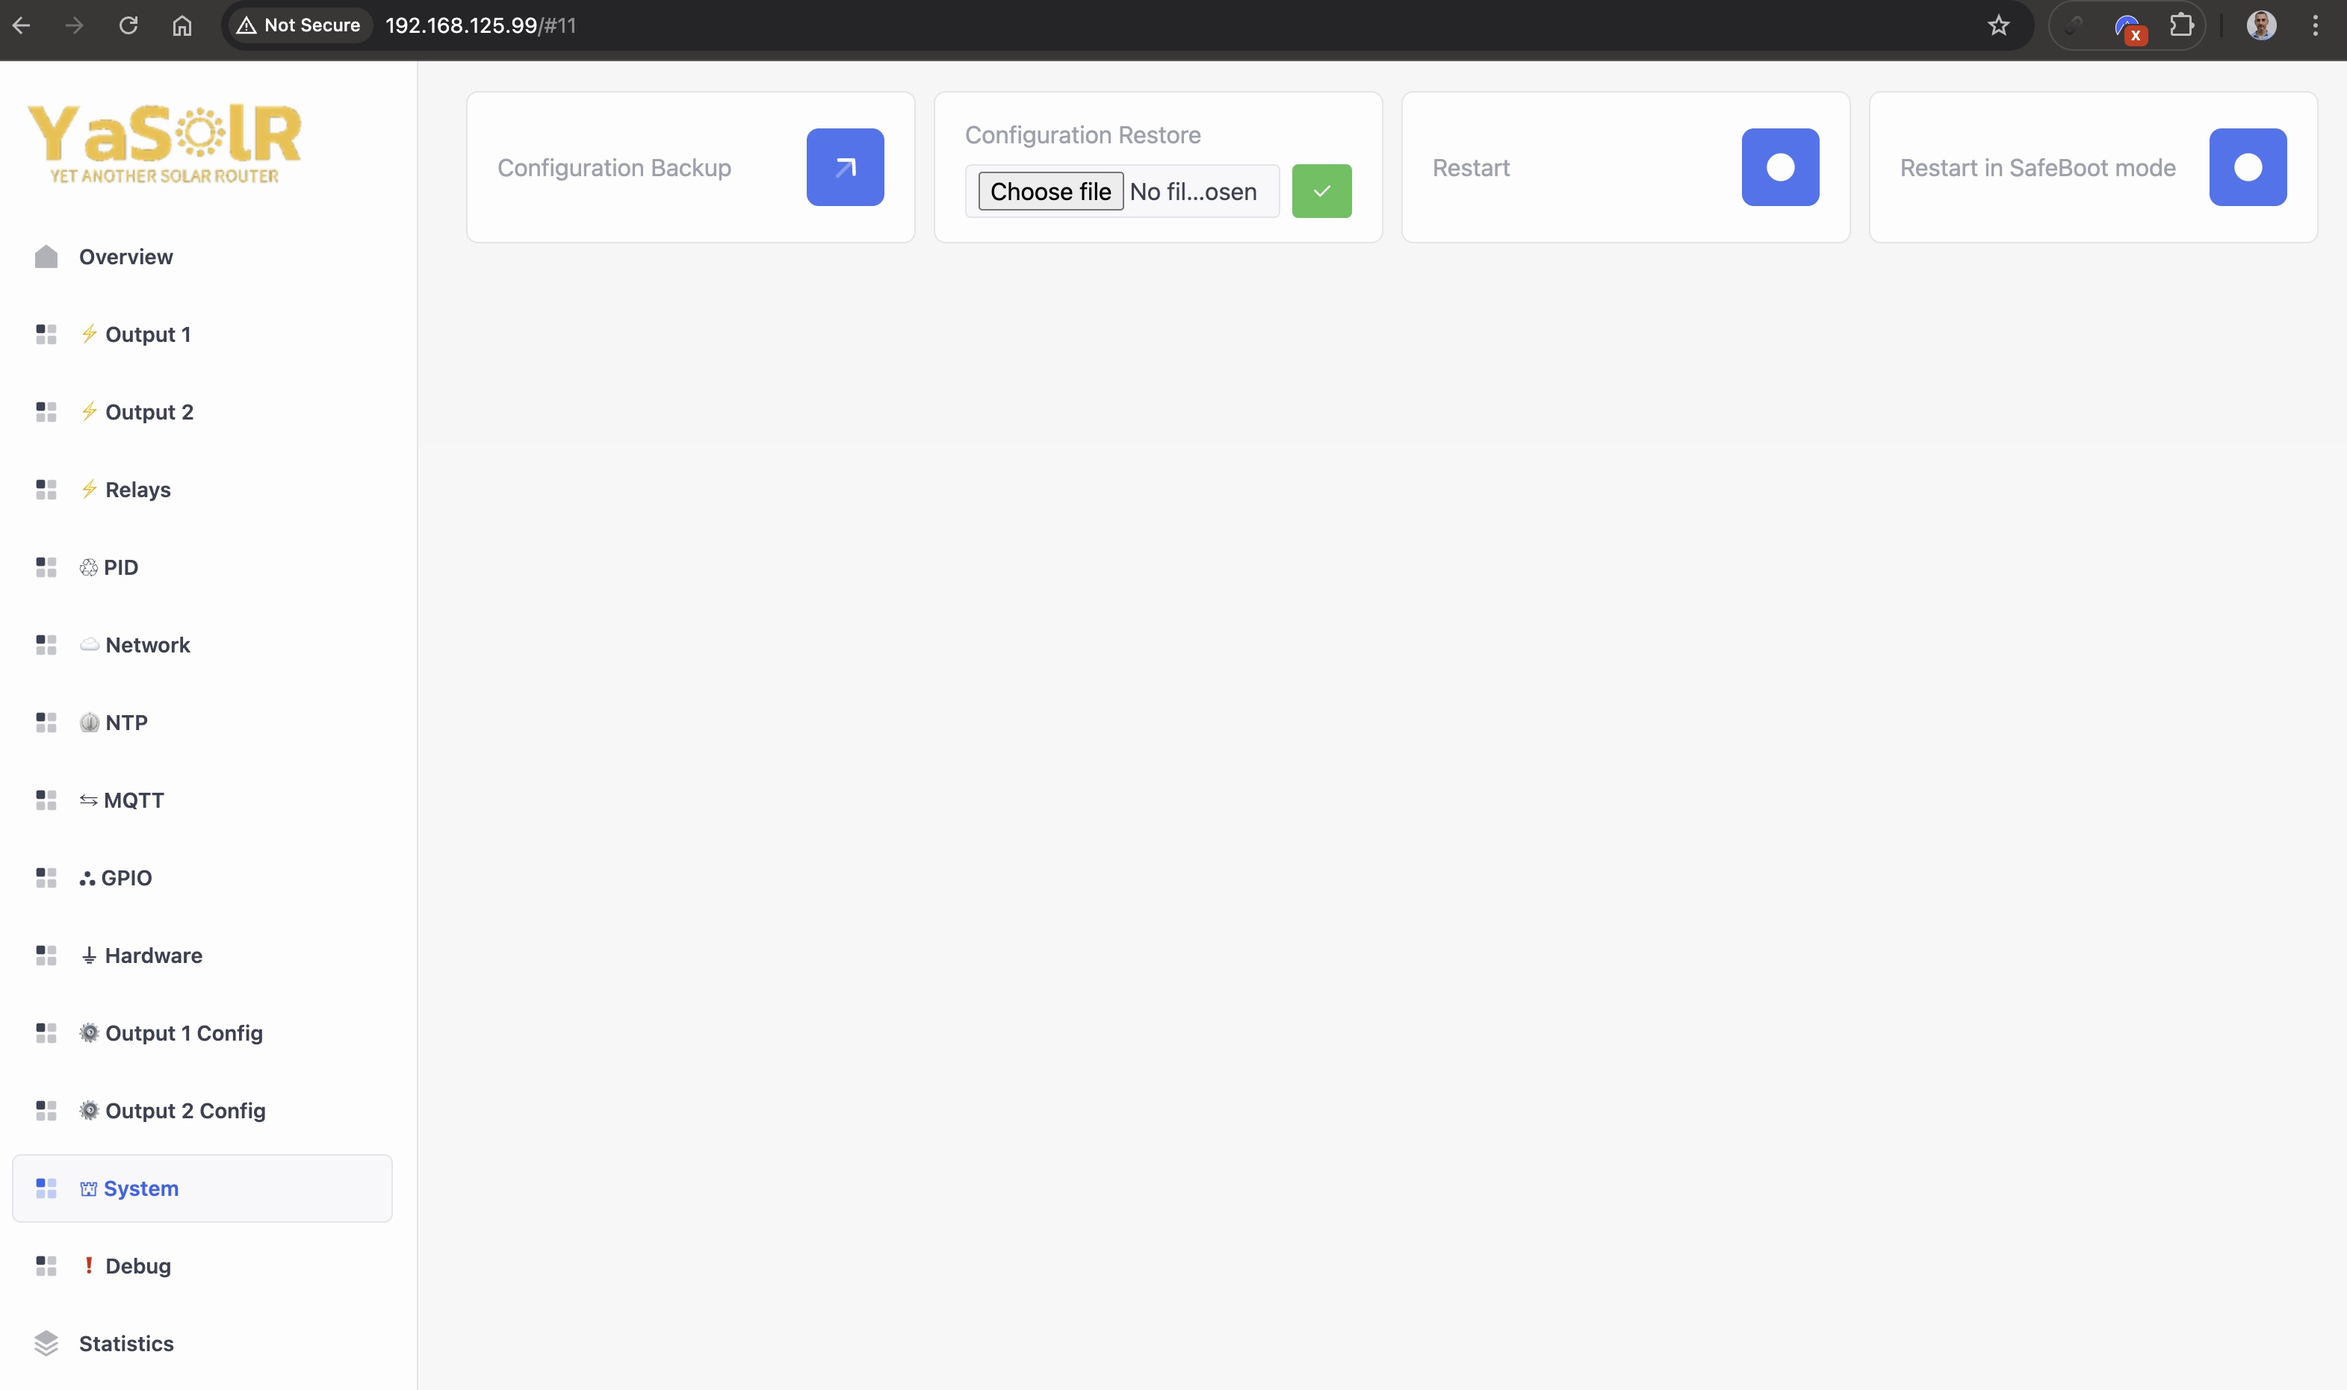
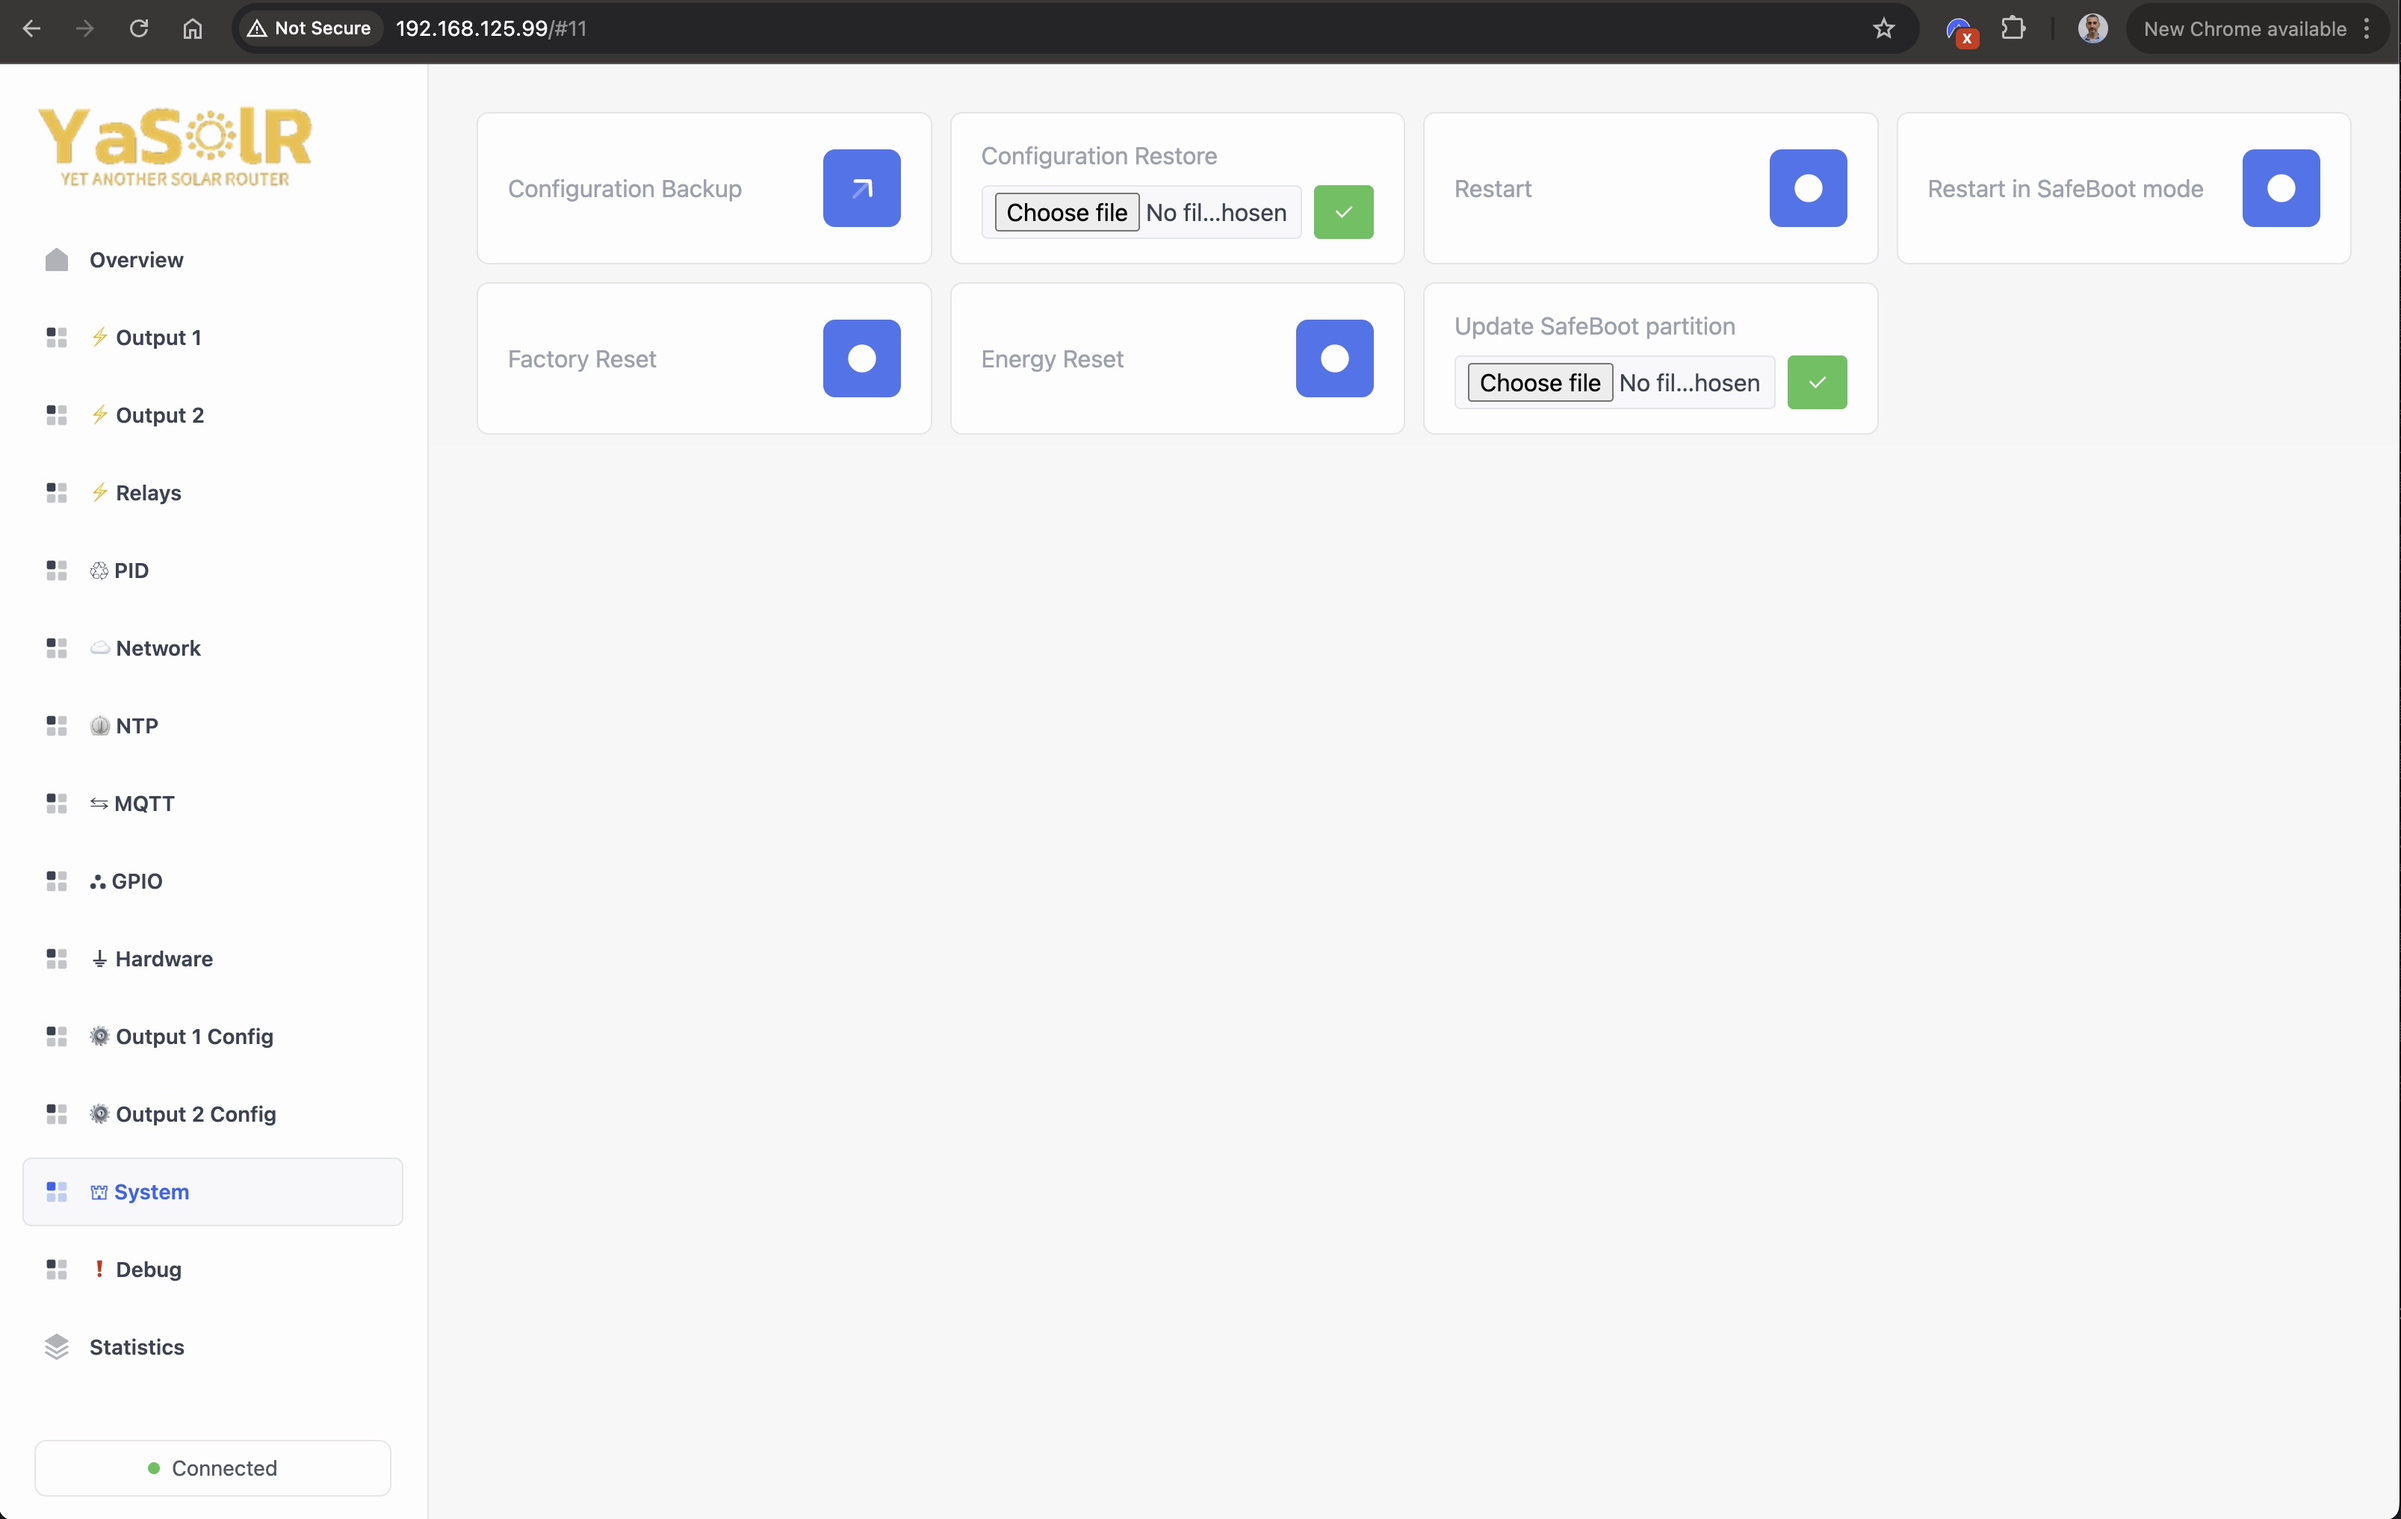
update

diff --git a/docs/manual.md b/docs/manual.md
@@ -872,6 +872,18 @@ It won't work if the water heater has already reached its threshold temperature.
 - `Restart in SafeBoot mode`: Restart YaSolR in SafeBoot mode to update through Web OTA the firmware
 - `Factory Reset`: Reset the router to factory settings and restart it.
 - `Energy Reset`: Reset the energy stored in all devices (JSY and PZEM) of the router.
+- `Update SafeBoot partition`: Update the SafeBoot recovery partition
+
+> ##### IMPORTANT
+>
+> YaSolR is composed of 2 partitions: the main partition (called `app`) and a SafeBoot recovery partition (called `safeboot`), which is used to update YaSolR application.
+> When updating through web (OTA) it is not possible to update the partition from which the application is currently running.
+> That is why YaSolR needs to restart in SafeBoot mode to update the main application partition.
+> And consequently, from YaSolR, it is possible to update this SafeBoot recovery partition.
+> 
+> Pay really attention when updating the recovery partition: 
+> if anything goes wrong, you will have to re-flash the complete FACTORY firmware and reconfigure everything (or restore a backup).
+{: .block-important }
 
 ### Debug
 
